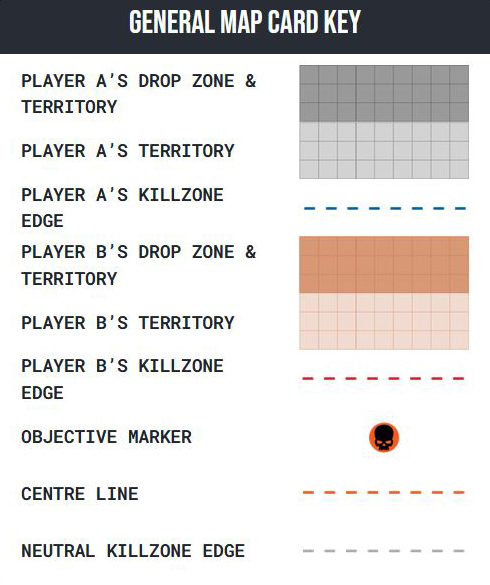
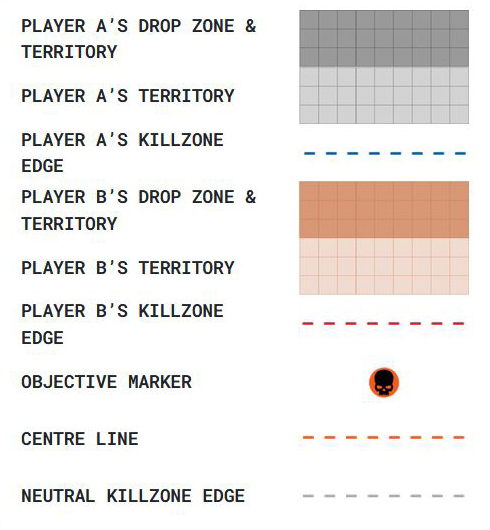
Testing different map keys

diff --git a/src/components/Maps_BhetaDecima.jsx b/src/components/Maps_BhetaDecima.jsx
@@ -1,19 +1,9 @@
-import { useState } from 'react'
+import MapsKey from './Maps_Key'
 
 const MapsBhetaDecima = () => {
-  const [keyVisible, setKeyVisible] = useState(false);
-
-  const toggleKey = () => {
-    setKeyVisible(!keyVisible);
-  };
-
   return (
     <div className="sectionContent" id="bhetaDecima">
-      <div className="textCenter">
-        <button className="disclaimerBtn" onClick={toggleKey} style={{ marginBottom: 20 + 'px' }}><span style={{ color: 'white' }}>SHOW KEY</span></button>
-      </div>
-      {keyVisible && <img src="https://raw.githubusercontent.com/jackmadethat/killteam/refs/heads/main/src/img/maps/MapRule.JPG" className="imgGraphic" style={{ maxWidth: 400 + 'px', paddingBottom: 20 + 'px' }} />}
-
+      <MapsKey />
       <div className="mapGrid">
         <img src="https://raw.githubusercontent.com/jackmadethat/killteam/refs/heads/main/src/img/maps/map-bd-1-min.png" className="mapImage" />
         <img src="https://raw.githubusercontent.com/jackmadethat/killteam/refs/heads/main/src/img/maps/map-bd-2-min.png" className="mapImage" />

diff --git a/src/components/Maps_Gallowdark.jsx b/src/components/Maps_Gallowdark.jsx
@@ -1,19 +1,9 @@
-import { useState } from 'react'
+import MapsKey from './Maps_Key'
 
 const MapsGallowdark = () => {
-  const [keyVisible, setKeyVisible] = useState(false);
-
-  const toggleKey = () => {
-    setKeyVisible(!keyVisible);
-  };
-
   return (
     <div className="sectionContent" id="gallowdark">
-      <div className="textCenter">
-        <button className="disclaimerBtn" onClick={toggleKey} style={{ marginBottom: 20 + 'px' }}><span style={{ color: 'white' }}>SHOW KEY</span></button>
-      </div>
-      {keyVisible && <img src="https://raw.githubusercontent.com/jackmadethat/killteam/refs/heads/main/src/img/maps/MapRule.JPG" className="imgGraphic" style={{ maxWidth: 400 + 'px', paddingBottom: 20 + 'px' }} />}
-
+      <MapsKey />
       <div className="mapGrid">
         <img src="https://raw.githubusercontent.com/jackmadethat/killteam/refs/heads/main/src/img/maps/map-itd-1-min.png" className="mapImage" />
         <img src="https://raw.githubusercontent.com/jackmadethat/killteam/refs/heads/main/src/img/maps/map-itd-2-min.png" className="mapImage" />

diff --git a/src/components/Maps_TombWorld.jsx b/src/components/Maps_TombWorld.jsx
@@ -1,19 +1,9 @@
-import { useState } from 'react'
+import MapsKey from './Maps_Key'
 
 const MapsTombWorld = () => {
-  const [keyVisible, setKeyVisible] = useState(false);
-
-  const toggleKey = () => {
-    setKeyVisible(!keyVisible);
-  };
-
   return (
     <div className="sectionContent" id="tombworld">
-      <div className="textCenter">
-        <button className="disclaimerBtn" onClick={toggleKey} style={{ marginBottom: 20 + 'px' }}><span style={{ color: 'white' }}>SHOW KEY</span></button>
-      </div>
-      {keyVisible && <img src="https://raw.githubusercontent.com/jackmadethat/killteam/refs/heads/main/src/img/maps/MapRule.JPG" className="imgGraphic" style={{ maxWidth: 400 + 'px', paddingBottom: 20 + 'px' }} />}
-
+      <MapsKey /> 
       <div className="mapGrid">
         <img src="https://raw.githubusercontent.com/jackmadethat/killteam/refs/heads/main/src/img/maps/map-tw-1-min.png" className="mapImage" />
         <img src="https://raw.githubusercontent.com/jackmadethat/killteam/refs/heads/main/src/img/maps/map-tw-2-min.png" className="mapImage" />

diff --git a/src/components/Maps_Volkus.jsx b/src/components/Maps_Volkus.jsx
@@ -1,19 +1,9 @@
-import { useState } from 'react'
+import MapsKey from './Maps_Key'
 
 const MapsVolkus = () => {
-  const [keyVisible, setKeyVisible] = useState(false);
-
-  const toggleKey = () => {
-    setKeyVisible(!keyVisible);
-  };
-
   return (
     <div className="sectionContent" id="tombworld">
-      <div className="textCenter">
-        <button className="disclaimerBtn" onClick={toggleKey} style={{ marginBottom: 20 + 'px' }}><span style={{ color: 'white' }}>SHOW KEY</span></button>
-      </div>
-      {keyVisible && <img src="https://raw.githubusercontent.com/jackmadethat/killteam/refs/heads/main/src/img/maps/MapRule.JPG" className="imgGraphic" style={{ maxWidth: 400 + 'px', paddingBottom: 20 + 'px' }} />}
-
+      <MapsKey />
       <div className="mapGrid">
         <img src="https://raw.githubusercontent.com/jackmadethat/killteam/refs/heads/main/src/img/maps/map-vk-1-min.png" className="mapImage" />
         <img src="https://raw.githubusercontent.com/jackmadethat/killteam/refs/heads/main/src/img/maps/map-vk-2-min.png" className="mapImage" />

diff --git a/src/components/Maps_Open.jsx b/src/components/Maps_Open.jsx
@@ -1,19 +1,9 @@
-import { useState } from 'react'
+import MapsKey from './Maps_Key'
 
 const MapsOpen = () => {
-  const [keyVisible, setKeyVisible] = useState(false);
-
-  const toggleKey = () => {
-    setKeyVisible(!keyVisible);
-  };
-
   return (
     <div className="sectionContent" id="openMaps">
-      <div className="textCenter">
-        <button className="disclaimerBtn" onClick={toggleKey} style={{ marginBottom: 20 + 'px' }}><span style={{ color: 'white' }}>SHOW KEY</span></button>
-      </div>
-      {keyVisible && <img src="https://raw.githubusercontent.com/jackmadethat/killteam/refs/heads/main/src/img/maps/MapRule.JPG" className="imgGraphic" style={{ maxWidth: 400 + 'px', paddingBottom: 20 + 'px' }} />}
-
+      <MapsKey />
       <div className="mapGrid">
         <img src="https://raw.githubusercontent.com/jackmadethat/killteam/refs/heads/main/src/img/maps/map-op-1-min.png" className="mapImage" />
         <img src="https://raw.githubusercontent.com/jackmadethat/killteam/refs/heads/main/src/img/maps/map-op-2-min.png" className="mapImage" />

diff --git a/src/components/Maps_Key.jsx b/src/components/Maps_Key.jsx
@@ -1,0 +1,20 @@
+import { useState } from 'react'
+
+const MapsKey = () => {
+  const [keyVisible, setKeyVisible] = useState(false);
+
+  const toggleKey = () => {
+    setKeyVisible(!keyVisible);
+  };
+
+  return (
+    <>
+      <div className="textCenter">
+        <button className="disclaimerBtn" onClick={toggleKey} style={{ marginBottom: 20 + 'px' }}><span style={{ color: 'white' }}>SHOW KEY</span></button>
+      </div>
+      {keyVisible && <img src="https://raw.githubusercontent.com/jackmadethat/killteam/refs/heads/main/src/img/maps/MapKey.JPG" className="imgGraphic" style={{ maxWidth: 400 + 'px', paddingBottom: 20 + 'px' }} />}
+    </>
+  )
+}
+
+export default MapsKey
